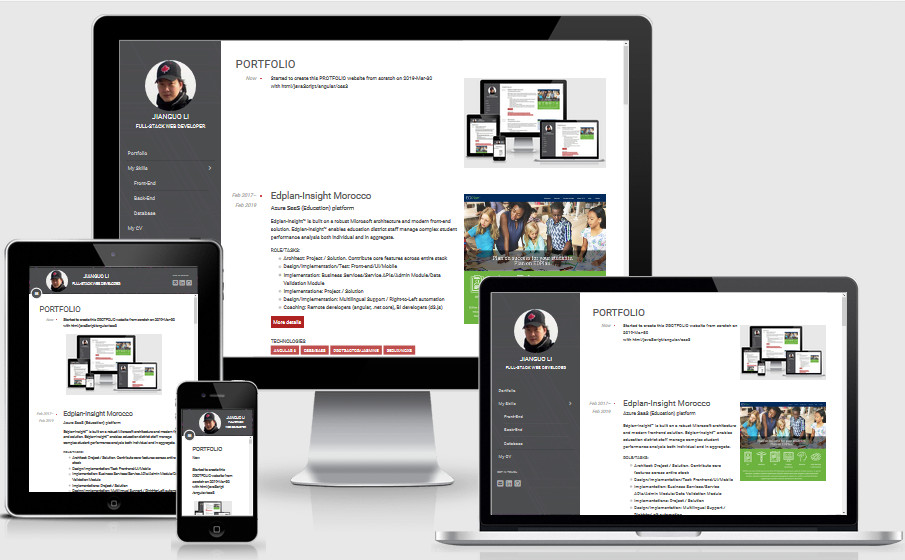
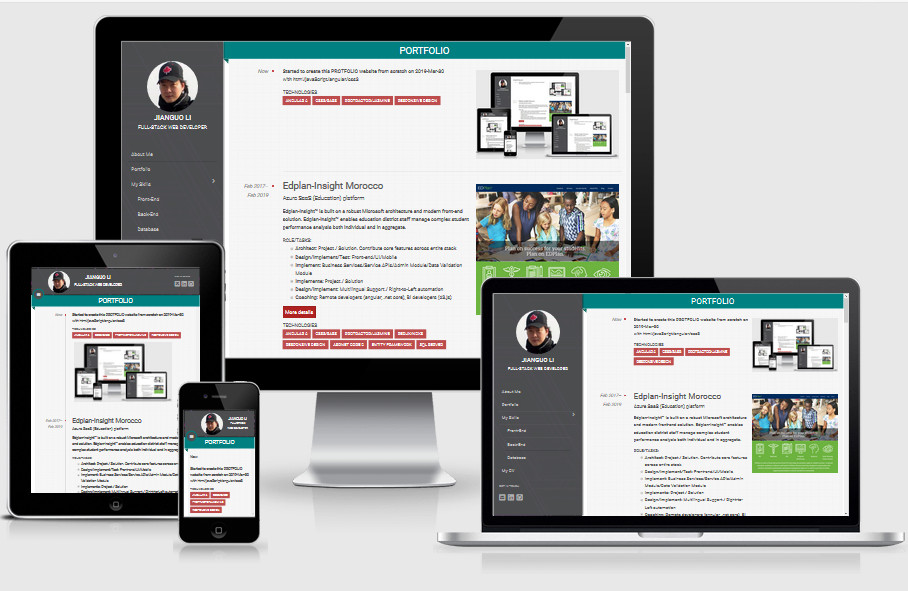
skills.component, mobile-menu.component

diff --git a/src/app/Module_App/_shared/MobileMenu/mobile-menu.component.html b/src/app/Module_App/_shared/MobileMenu/mobile-menu.component.html
@@ -2,9 +2,10 @@
 
   <div class="person">
     <div class="button-wrap">
-      <div class='action-button' (click)='toggleMobileMenu()'>
-        <i class="fas fa-bars" *ngIf="isShowHeader"></i>
-        <i class="fas fa-arrow-up" *ngIf="!isShowHeader"></i>
+      <div class='action-button' [matMenuTriggerFor]="animals">
+        <!-- (click)='toggleMobileMenu()' -->
+        <i class="fas fa-bars"></i>
+        <!-- <i class="fas fa-arrow-up" *ngIf="!isShowHeader"></i> -->
       </div>
     </div>
     <div class="person-avatar">
@@ -40,3 +41,35 @@
     </div>
   </div>
 </nav>
+
+<!-- <button mat-button [matMenuTriggerFor]="animals">Animal index</button> -->
+
+<mat-menu #animals="matMenu">
+  <button mat-menu-item (click)='nav("about")'>
+    <mat-icon>person</mat-icon><span>About Me</span>
+  </button>
+  <button mat-menu-item (click)='nav("home")'>
+    <mat-icon>web</mat-icon><span>Portfolio</span>
+  </button>
+  <button mat-menu-item [matMenuTriggerFor]="mySkills">
+    <mat-icon>equalizer</mat-icon><span>My Skills</span>
+  </button>
+  <button mat-menu-item>
+    <a href="https://docs.google.com/document/d/1wilLURW7nKxX_g_wDlyGBfYDjMGx9Du-pRYFw-ed8Ok/edit?usp=sharing"
+      target="blank">
+      <mat-icon>description</mat-icon><span>My CV</span>
+    </a>
+  </button>
+</mat-menu>
+
+<mat-menu #mySkills="matMenu">
+  <button mat-menu-item (click)='nav("skills","front")'>
+    <mat-icon>devices</mat-icon><span>Front-End</span>
+  </button>
+  <button mat-menu-item (click)='nav("skills","back")'>
+    <mat-icon>code</mat-icon><span>Back-End</span>
+  </button>
+  <button mat-menu-item (click)='nav("skills","data")'>
+    <mat-icon>dns</mat-icon><span>Database</span>
+  </button>
+</mat-menu>

diff --git a/src/app/app.component.ts b/src/app/app.component.ts
@@ -6,6 +6,7 @@ import { Observable, fromEvent, Subscription } from 'rxjs';
 import { map, filter, tap } from 'rxjs/operators';
 import { Router } from '@angular/router';
 import RouteName from './routename';
+import { IMenuItem } from './Module_App/_shared/MobileMenu';
 export interface IWindowResizeInfo {
   isLessThanBreakpoint: boolean;
   width?: number;
@@ -42,6 +43,9 @@ export class AppComponent implements OnInit {
 
   constructor(private router: Router, private eventService: EventService) { }
 
+  onActivate(event, mainContainer) {
+    mainContainer.scrollTop = 0;
+  }
 
   ngOnInit() {
     this.eventService
@@ -50,7 +54,7 @@ export class AppComponent implements OnInit {
         this.toggleMobileMenu();
       });
     this.eventService
-      .on<string>(EventName.Event_MenuItemClicked)
+      .on<IMenuItem>(EventName.Event_MenuItemClicked)
       .subscribe(r => {
         this.onMenuItemClicked(r);
       });
@@ -87,9 +91,12 @@ export class AppComponent implements OnInit {
       this.containerState = 'normal';
     }
   }
-  onMenuItemClicked(item: string) {
+  onMenuItemClicked(item: IMenuItem) {
     if (item) {
-      this.router.navigate([item]);
+      if (item.isLink) {
+        return;
+      }
+      this.router.navigate([item.route], { queryParams: { group: item.param } });
     }
   }
 

diff --git a/src/app/Module_App/config.ts b/src/app/Module_App/config.ts
@@ -34,20 +34,20 @@ export class Config {
   };
 
   static MobileMenu: IMenuItem[] = [
-    { menu_text: 'Portfolio', action: RouteName.Home },
-    { menu_text: 'About Me', action: RouteName.AboutMe },
+    { menu_text: 'About Me', route: RouteName.AboutMe },
+    { menu_text: 'Portfolio', route: RouteName.Home },
     {
       menu_text: 'My Skills',
-      action: 'skills',
+      route: 'skills',
       show_submenu: true,
       sub_menu: [
-        { menu_text: 'Front-End', action: RouteName.Skills, param: 'front' },
-        { menu_text: 'Back-End', action: RouteName.Skills, param: 'back' },
-        { menu_text: 'Database', action: RouteName.Skills, param: 'data' }
+        { menu_text: 'Front-End', route: RouteName.Skills, param: 'front' },
+        { menu_text: 'Back-End', route: RouteName.Skills, param: 'back' },
+        { menu_text: 'Database', route: RouteName.Skills, param: 'data' }
       ]
     },
     // { menu_text: 'Gallery', action: RouteName.Home },
-    { menu_text: 'My CV', action: RouteName.SignUp },
+    { menu_text: 'My CV', isLink: true, route: 'https://docs.google.com/document/d/1wilLURW7nKxX_g_wDlyGBfYDjMGx9Du-pRYFw-ed8Ok/edit' },
 
   ];
 }

diff --git a/src/app/Module_App/_shared/MobileMenu/mobile-menu.component.scss b/src/app/Module_App/_shared/MobileMenu/mobile-menu.component.scss
@@ -12,7 +12,7 @@ $gt-sm: 960px;
   @media (max-width: $gt-sm) {
     &.isShowHeader {
       z-index: 100;
-      position: relative;
+      position: fixed;
       height: auto;
       width: 100%;
       display: flex;
@@ -24,7 +24,7 @@ $gt-sm: 960px;
         display: flex;
         justify-content: space-between;
         .menu-section {
-          display: none;
+          display: none; //
         }
         .person {
           display: flex;
@@ -53,7 +53,7 @@ $gt-sm: 960px;
       }
     }
   }
-  @media (max-width: 400px) {
+  @media (max-width: 460px) {
     &.isShowHeader {
       .person-title {
         font-size: 16px !important;
@@ -207,8 +207,10 @@ a {
     background-color: #4e5052;
     cursor: pointer;
     z-index: 20;
+    transition: all 0.5s ease-in-out;
     &:hover {
-      background-color: rgb(13, 23, 82);
+      background-color: #39393a;
+      transform: rotate(360deg);
     }
   }
 }
@@ -242,4 +244,13 @@ a {
   // @media (max-width: $gt-sm) {
   //   display: flex;
   // }
+}
+a:link {
+  text-decoration: none;
+  color: rgba(0, 0, 0, 0.87);
+}
+
+a:visited {
+  text-decoration: none;
+  color: rgba(0, 0, 0, 0.87);
 }

diff --git a/src/app/Module_App/_shared/MobileMenu/mobile-menu.component.ts b/src/app/Module_App/_shared/MobileMenu/mobile-menu.component.ts
@@ -7,8 +7,9 @@ import { hoverScaleAnimation } from '../animation';
 export interface IMenuItem {
   menu_text: string;
   sub_menu?: IMenuItem[];
-  action?: string;
+  route?: string;
   show_submenu?: boolean;
+  isLink?: boolean;
   param?: string;
 }
 
@@ -32,12 +33,6 @@ export class MobileMenuComponent implements OnInit {
 
   ngOnInit() {
     this.mobileMenuState = this.isShowHeader ? 'head' : 'side';
-    // from MobileMenu
-    // this.eventService
-    //   .on<string>(EventName.Event_MobileToggleClicked)
-    //   .subscribe(r => {
-    //     this.toggleMobileMenu();
-    //   });
   }
 
   toggleMobileMenu() {
@@ -45,7 +40,12 @@ export class MobileMenuComponent implements OnInit {
     this.mobileMenuState = this.mobileMenuState === 'side' ? 'head' : 'side';
     // this.containerState = this.mobileMenuState === 'hide' ? 'normal' : 'right';
   }
-  nav(route: string, withClubId?: boolean) { }
+
+  nav(route: string, param?: string) {
+    if (route) {
+      this.router.navigate([route], { queryParams: { group: param } });
+    }
+  }
 
   setMouseState(p: string) {
     this.hoverState = p;

diff --git a/src/app/Module_App/skills/skills.component.ts b/src/app/Module_App/skills/skills.component.ts
@@ -1,5 +1,6 @@
 import { Component, OnInit } from '@angular/core';
 import { fadeInAnimation } from '../_shared/animation';
+import { ActivatedRoute } from '@angular/router';
 
 @Component({
   selector: 'skills',
@@ -8,9 +9,31 @@ import { fadeInAnimation } from '../_shared/animation';
 })
 export class SkillsComponent implements OnInit {
 
-  constructor() { }
+  constructor(private route: ActivatedRoute) { }
 
   ngOnInit() {
+    this.route.queryParams.subscribe((param) => {
+      if (!param) {
+        return;
+      }
+      const id = param['group'];
+      if (!id) {
+        return;
+      }
+      const el = document.getElementById(id);
+      if (!el) {
+        return;
+      }
+      if (id === 'front') {
+        // el.scrollTop = 0;
+        document.getElementById('mainContainer').scrollTop = 0;
+        return;
+      }
+      // el.scrollTop = 0;
+      // el.scrollIntoView({ behavior: 'smooth' });
+      el.scrollIntoView(true);
+      // el.scrollTop -= 150;
+    });
   }
 
 }

diff --git a/src/app/Module_App/skills/skills.component.html b/src/app/Module_App/skills/skills.component.html
@@ -1,5 +1,6 @@
+<div id="front"></div>
 <div class="site-main-inner">
-  <div class="main-title">Skills</div>
+  <div class="main-title">Skill Set</div>
   <div class="main-section" [@fadeInAnimation]>
     <div class="container flow-text">
       <section id="skills" class="section scrollspy">
@@ -40,6 +41,7 @@
               </div>
             </div>
           </div>
+          <div id="back"></div>
           <div class="card">
             <div class="card-content">
               <h4 class="brown-text light">Javascript</h4>
@@ -107,6 +109,8 @@
               </div>
             </div>
           </div>
+          <div id="data"></div>
+          <div id="other"></div>
           <div class="card">
             <div class="card-content">
               <h4 class="brown-text light">Other</h4>

diff --git a/src/app/app.component.html b/src/app/app.component.html
@@ -7,9 +7,10 @@
     [isShowHeader]='!isShowSideBar' [menu]='mobileMenu'>
   </mobile-menu>
   <!-- [@menuToggleAnimate]='mobileMenuState' -->
-  <div class="site-main" [ngClass]="{isShowSideBar: isShowSideBar,isNotShowSideBar:!isShowSideBar}">
+  <div id='mainContainer' #mainContainer class="site-main"
+    [ngClass]="{isShowSideBar: isShowSideBar,isNotShowSideBar:!isShowSideBar}">
     <!-- <div>this is app</div>
     <button (click)='toggleMobileMenu()'>toggle menu</button> -->
-    <router-outlet></router-outlet>
+    <router-outlet (activate)="onActivate($event,mainContainer)"></router-outlet>
   </div>
 </div>

diff --git a/src/app/app.route.ts b/src/app/app.route.ts
@@ -4,9 +4,9 @@ import { AboutmeComponent } from './Module_App/aboutme/aboutme.component';
 import { SkillsComponent } from './Module_App/skills/skills.component';
 
 export const AppRoutes: Route[] = [
-  { path: '', redirectTo: '/home', pathMatch: 'full' },
-  { path: 'home', component: HomeComponent },
+  { path: '', redirectTo: '/about', pathMatch: 'full' },
   { path: 'about', component: AboutmeComponent },
+  { path: 'home', component: HomeComponent },
   { path: 'skills', component: SkillsComponent },
-  { path: '**', redirectTo: '/home' }
+  { path: '**', redirectTo: '/about' }
 ];

diff --git a/src/app/Module_App/_shared/MobileMenu/MenuItem/menu-item.component.ts b/src/app/Module_App/_shared/MobileMenu/MenuItem/menu-item.component.ts
@@ -35,9 +35,15 @@ export class MenuItemComponent implements OnInit {
     if (this.menuItem.sub_menu) {
       this.onArrowClick();
     } else {
-      this.eventService.pub<string>(
+      this.eventService.pub<IMenuItem>(
         EventName.Event_MenuItemClicked,
-        this.menuItem.action
+        {
+          menu_text: this.menuItem.menu_text,
+          route: this.menuItem.route,
+          isLink: this.menuItem.isLink,
+          param: this.menuItem.param
+        }
+
       );
       sessionStorage.setItem('__activeMenuItem__', this.menuItem.menu_text);
     }

diff --git a/src/app/Module_App/_shared/MobileMenu/MenuItem/menu-item.component.html b/src/app/Module_App/_shared/MobileMenu/MenuItem/menu-item.component.html
@@ -1,5 +1,7 @@
 <div class="item-wrap" [ngClass]="{active: isActiveMenuItem}" (click)='onItemClick()'>
-  <div class="item">{{menuItem.menu_text}}
+  <div class="item" *ngIf="!menuItem.isLink">{{menuItem.menu_text}}</div>
+  <div class="item" *ngIf="menuItem.isLink">
+    <a [attr.href]="menuItem.route" target="blank">{{menuItem.menu_text}}</a>
   </div>
   <div [@rotateAnimate]='arrowState' class="indicator" *ngIf="menuItem.sub_menu">
     <mat-icon>keyboard_arrow_right</mat-icon>

diff --git a/src/styles.scss b/src/styles.scss
@@ -31,6 +31,12 @@ body {
     border-bottom-color: transparent;
     border-left-color: transparent;
   }
+  @media (max-width: 960px) {
+    position: fixed;
+    width: 100%;
+    top: 120px;
+    z-index: 10;
+  }
 }
 .main-section {
   padding: 10px;
@@ -39,4 +45,7 @@ body {
   background-color: #cfdcda;
   margin-left: 16px;
   background: url(./assets/img/bg-square.png) repeat;
+  @media (max-width: 960px) {
+    margin-top: 174px;
+  }
 }
